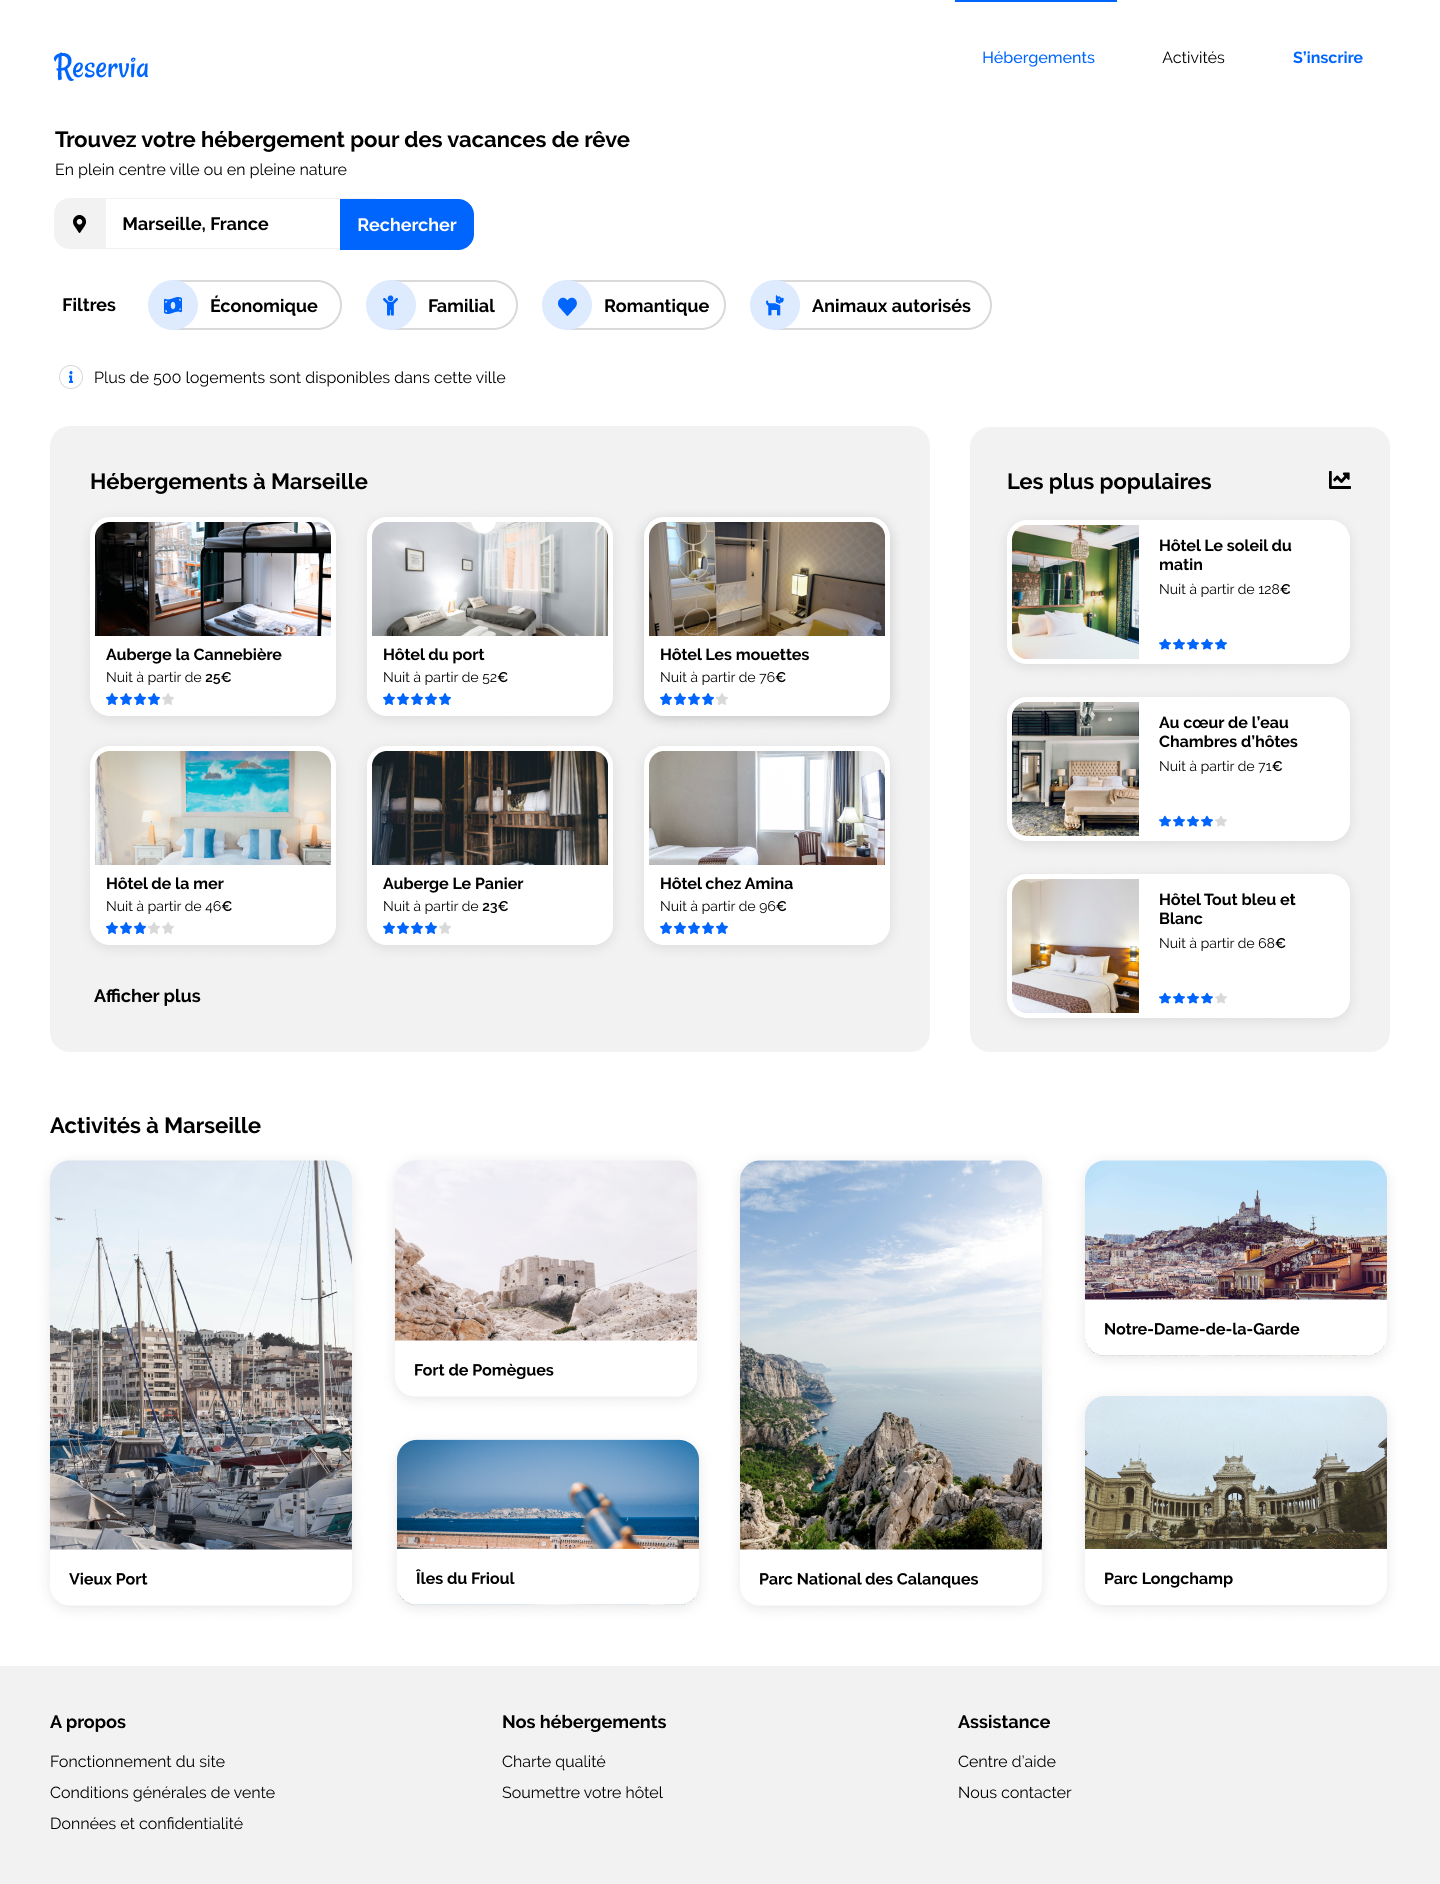
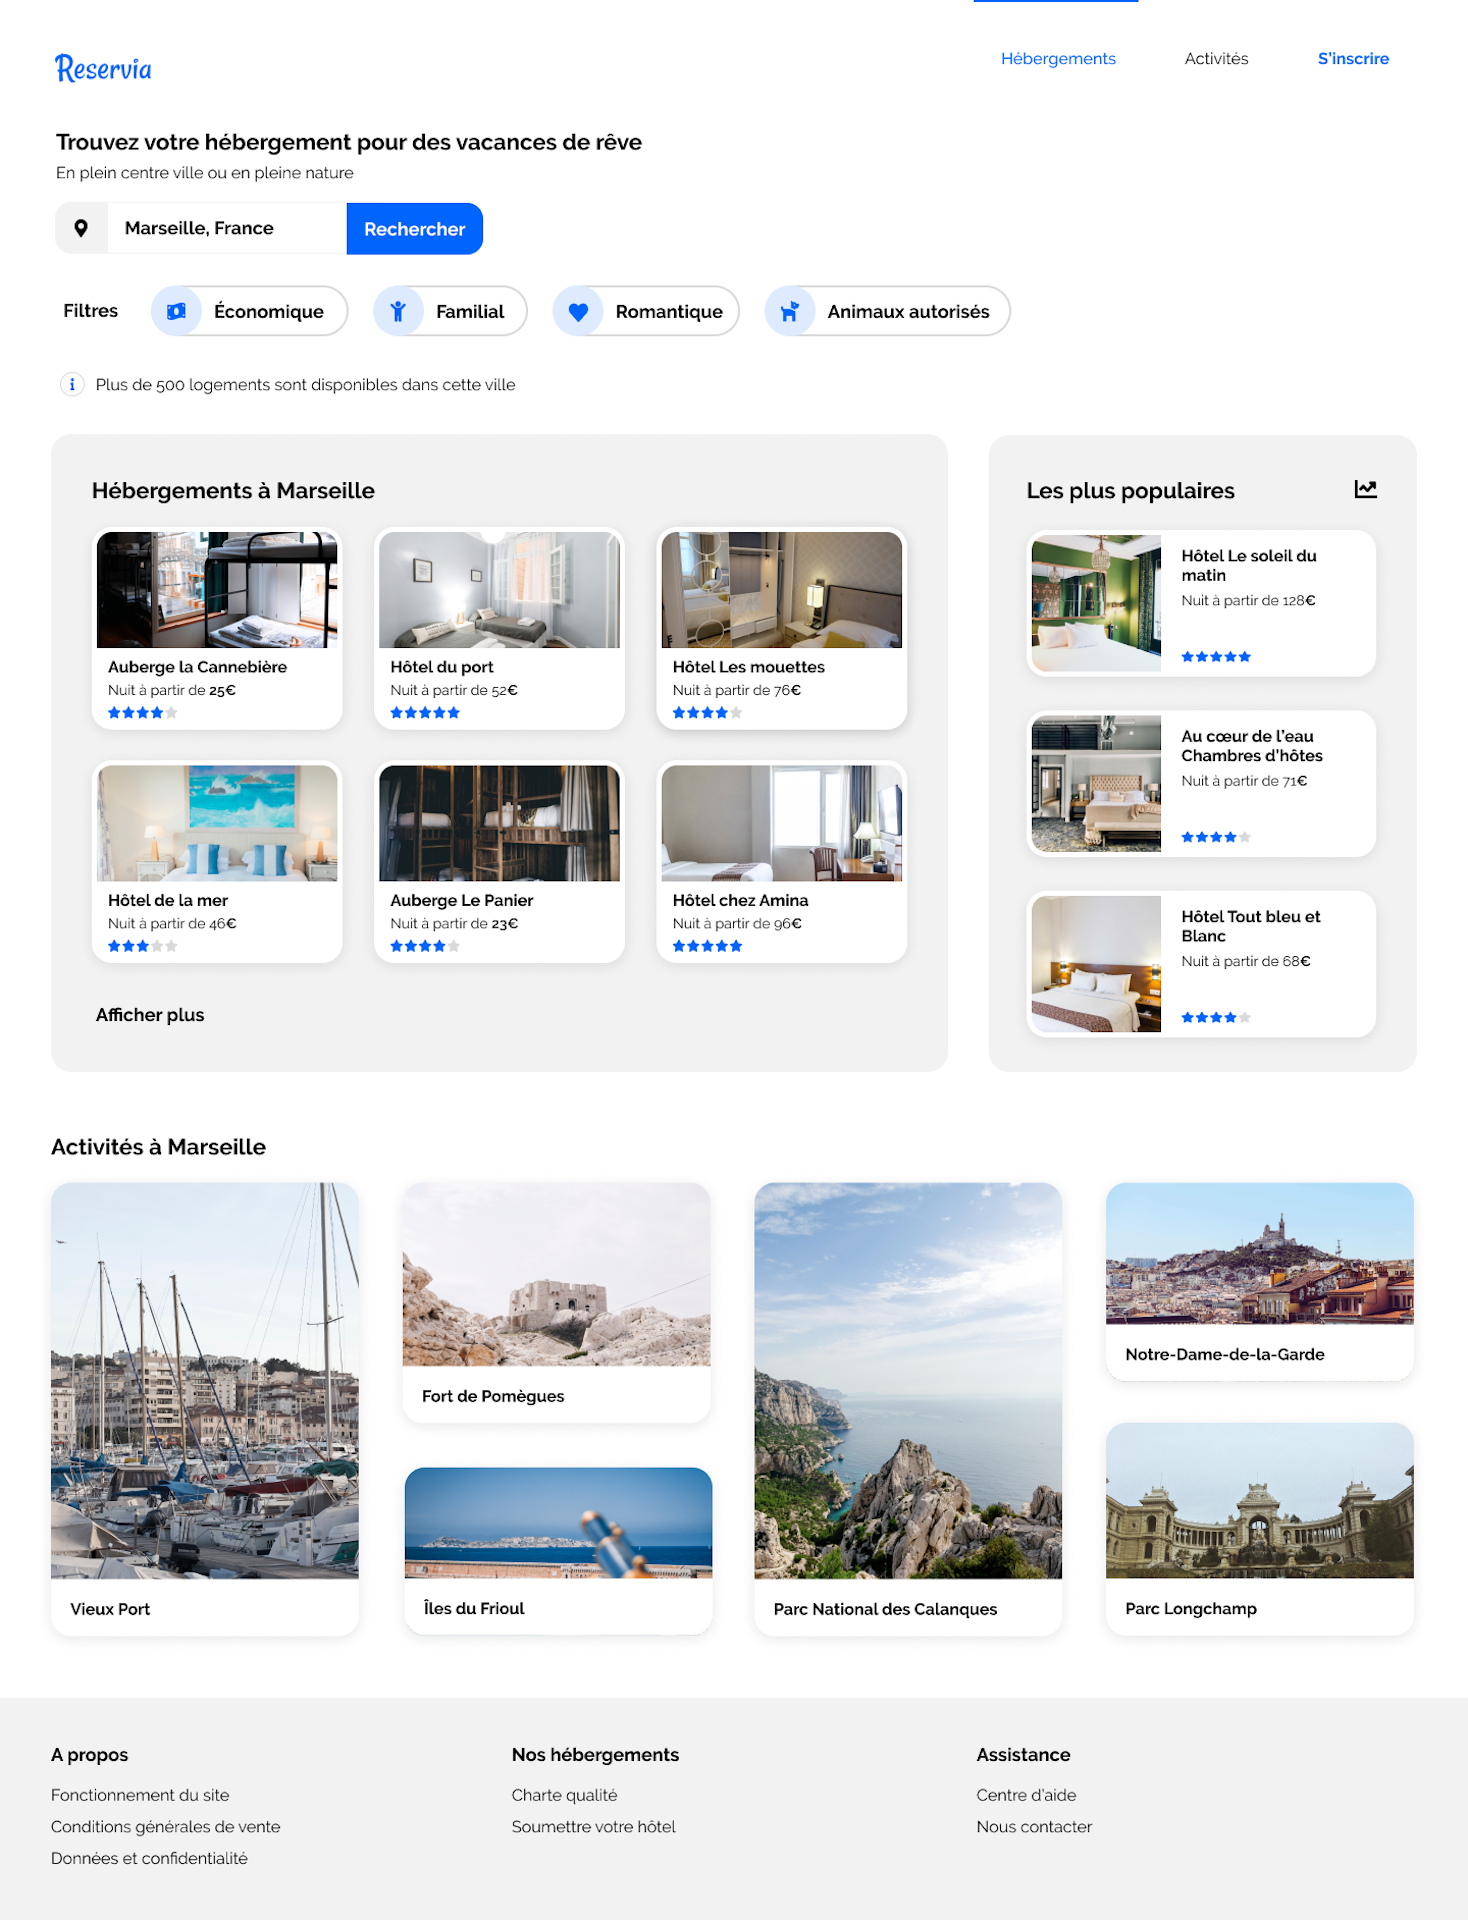
mise en place de popular

diff --git a/index.html b/index.html
@@ -31,14 +31,6 @@
         
 
 
-
-
-
-
-
-
-
-
         <!--section1 search and filters-->
         <section id="where">
 
@@ -63,9 +55,6 @@
 
             </div>
             
-
-
-
 
             
             <div class="filters">
@@ -144,92 +133,103 @@
         
         
             <article>
-            <H1>Hébergements à Marseille</H1>
-            <div class="photosHebergement">
-                <ul >
-                    <li>
+                <div><H1>Hébergements à Marseille</H1></div>
 
-                        <div class="medaillon">
-                            <a href="images/hebergements/1_xlarge/annie-spratt-Eg1qcIitAuA-unsplash.jpg"><img src="images/hebergements/vignette /annie.jpg" alt="chez Annie"/></a>
-                        </div>
+                <div class="photosHebergement">
+                    <ul >
+                         <li>
+
+                            <div class="medaillon">
+                            <a href="images/hebergements/1_xlarge/marcus-loke-WQJvWU_HZFo-unsplash.jpg"><img src="images/hebergements/vignette /marcus.jpg" alt="chez Annie"/></a>
+                             </div>
                             
                 
-                        <div class="desc"><h3>Hotel chez Annie</h3>
-                                        <p>Nuit à partir de 25€</p>
-                                        <p><div class="starBlue"><i class="fas fa-star "></i><i class="fas fa-star"></i> <i class="fas fa-star"></i> <i id="starGrey" class="fas fa-star"></i> <i id="starGrey" class="fas fa-star"></i></div>
+                            <div class="desc"><h3>Auberge la Cannebière</h3>
+                                        <p>Nuit à partir de <B>25€</B></p>
+                                        <p><div class="starBlue"><i class="fas fa-star "></i><i class="fas fa-star"></i><i class="fas fa-star"></i><i class="fas fa-star"></i><i id="starGrey" class="fas fa-star"></i></p>
 
-                        </div>
+                            </div>
 
-                    </li>
+                        </li>
                     
-                    <li>
+                        <li>
 
-                        <div class="medaillon">
-                            <a href="images/hebergements/1_xlarge/aw-creative-VGs8z60yT2c-unsplash.jpg"><img src="images/hebergements/vignette /Webp.net-resizeimage.jpg" alt="chez Creative"></a>
-                        </div>
-                            
-                
-                        <div class="desc"><h3>Hotel chez Annie</h3>
-                                        <p>Nuit à partir de 25€</p>
-                                        <p>etoile</p>
-
-                        </div>
-
-                    </li>
-                    <li>
-
-                        <div class="medaillon">
-                            <a href="images/hebergements/1_xlarge/aw-creative-VGs8z60yT2c-unsplash.jpg"><img src="images/hebergements/vignette /Webp.net-resizeimage.jpg" alt="chez Creative"></a>
-                        </div>
-                            
-                
-                        <div class="desc"><h3>Hotel chez Annie</h3>
-                                        <p>Nuit à partir de 25€</p>
-                                        <p>etoile</p>
-
-                        </div>
-
-                    </li>
+                            <div class="medaillon">
+                                <a href="images/hebergements/1_xlarge/fred-kleber-gTbaxaVLvsg-unsplash.jpg"><img src="images/hebergements/vignette /hotel_du_port.jpg" alt="chez Creative"></a>
+                            </div>
+                                    
                     
-                    <li>
+                            <div class="desc"><h3>Hôtel du port</h3>
+                                            <p>Nuit à partir de <B>52€</B></p>
+                                            <p><div class="starBlue"><i class="fas fa-star "></i><i class="fas fa-star"></i><i class="fas fa-star"></i><i class="fas fa-star"></i><i class="fas fa-star"></i></p>
 
-                        <div class="medaillon">
-                            <a href="images/hebergements/1_xlarge/aw-creative-VGs8z60yT2c-unsplash.jpg"><img src="images/hebergements/vignette /Webp.net-resizeimage.jpg" alt="chez Creative"></a>
-                        </div>
-                            
-                
-                        <div class="desc"><h3>Hotel chez Annie</h3>
-                                        <p>Nuit à partir de 25€</p>
-                                        <p>etoile</p>
+                            </div>
 
-                        </div>
+                        </li>
+                        <li>
 
-                    </li>
-                    <li>
-
-                        <div class="medaillon">
-                            <a href="images/hebergements/1_xlarge/aw-creative-VGs8z60yT2c-unsplash.jpg"><img src="images/hebergements/vignette /Webp.net-resizeimage.jpg" alt="chez Creative"></a>
-                        </div>
-                            
-                
-                        <div class="desc"><h3>Hotel chez Annie</h3>
-                                        <p>Nuit à partir de 25€</p>
-                                        <p>etoile</p>
-
-                        </div>
-
-                    </li>
-                     
+                            <div class="medaillon">
+                                <a href="images/hebergements/1_xlarge/reisetopia-B8WIgxA_PFU-unsplash.jpg"><img src="images/hebergements/vignette /hotel_les_mouettes.jpg" alt="chez Creative"></a>
+                            </div>
+                                
+                    
+                            <div class="desc"><h3>Hôtel des mouettes</h3>
+                                            <p>Nuit à partir de <B>76€</B></p>
+                                            <p><div class="starBlue"><i class="fas fa-star"></i><i class="fas fa-star"></i><i class="fas fa-star"></i><i class="fas fa-star"></i><i id="starGrey" class="fas fa-star"></i></p>
 
 
-            
+                            </div>
 
-            
+                        </li>
+                        
+                        <li>
+
+                            <div class="medaillon">
+                                <a href="images/hebergements/1_xlarge/annie-spratt-Eg1qcIitAuA-unsplash.jpg"><img src="images/hebergements/vignette /annie.jpg" alt="chez Annie"/></a>
+                            </div>
+                                
+                    
+                            <div class="desc"><h3>Hôtel de la mer</h3>
+                                            <p>Nuit à partir de <B>46€</B></p>
+                                            <p><div class="starBlue"><i class="fas fa-star"></i><i class="fas fa-star"></i> <i class="fas fa-star"></i> <i id="starGrey" class="fas fa-star"></i> <i id="starGrey" class="fas fa-star"></i></p>
+
+                            </div>
+
+                        </li>
+                        <li>
+
+                            <div class="medaillon">
+                                <a href="images/hebergements/1_xlarge/nicate-lee-kT-ZyaiwBe0-unsplash.jpg"><img src="images/hebergements/vignette /auberge_le_panier.jpg" alt="chez Creative"></a>
+                            </div>
+                                
+                    
+                            <div class="desc"><h3>Auberge le panier</h3>
+                                            <p>Nuit à partir de <B>23€</B></p>
+                                            <p><div class="starBlue"><i class="fas fa-star"></i><i class="fas fa-star"></i><i class="fas fa-star"></i><i class="fas fa-star"></i><i id="starGrey" class="fas fa-star"></i></p>
 
 
-            </ul>
+                            </div>
+
+                        </li>
+
+                        <li>
+
+                            <div class="medaillon">
+                                <a href="images/hebergements/1_xlarge/febrian-zakaria-M6S1WvfW68A-unsplash.jpg"><img src="images/hebergements/vignette /hotel_chez-amina.jpg" alt="chez Creative"></a>
+                            </div>
+                                
+                    
+                            <div class="desc"><h3>Hôtel chez Amina</h3>
+                                            <p>Nuit à partir de <B>96€</B></p>
+                                            <p><div class="starBlue"><i class="fas fa-star "></i><i class="fas fa-star"></i><i class="fas fa-star"></i><i class="fas fa-star"></i><i class="fas fa-star"></i></p>
+
+                            </div>
+
+                        </li>
+
+                </ul>
             </div>
-            <h2>Afficher plus</h2>
+            <div><h2>Afficher plus</h2></div>
 
 
             
@@ -242,11 +242,59 @@
         
         
             <aside>
-                <h1>Les plus populaires </h1>
-                <i class="fas fa-chart-line"></i>
-                
+                <div id="popular">
+                    <h1>Les plus populaires </h1>
+                    <p><i class="fas fa-chart-line"></i></p>
+                </div>
+                    <ul>
+                        <li>
 
-                
+                            <div class="medaillon2">
+                                <a href="images/hebergements/1_xlarge/emile-guillemot-Bj_rcSC5XfE-unsplash.jpg"><img src="images/hebergements/vignette /hotel_le_soleil_du_matin.jpg" alt="chez Annie"/></a>
+                            </div>
+                                
+                    
+                            <div class="desc"><h3>Hôtel Le soleil du matin</h3>
+                                            <p>Nuit à partir de <B>128€</B></p>
+                                            <p><div class="starBlue"><i class="fas fa-star "></i><i class="fas fa-star"></i><i class="fas fa-star"></i><i class="fas fa-star"></i><i class="fas fa-star"></i></p>
+
+                            </div>
+
+                        </li>
+                        <li>
+
+                            <div class="medaillon2">
+                                <a href="images/hebergements/1_xlarge/aw-creative-VGs8z60yT2c-unsplash.jpg"><img src="images/hebergements/vignette /Au-coeur_de_l_eau.jpg" alt="chez Creative"></a>
+                            </div>
+                                
+                    
+                            <div class="desc"><h3>Au coeur de l'eau chambres d'hôtes</h3>
+                                            <p>Nuit à partir de <B>71€</B></p>
+                                            <p><div class="starBlue"><i class="fas fa-star"></i><i class="fas fa-star"></i><i class="fas fa-star"></i><i class="fas fa-star"></i><i id="starGrey" class="fas fa-star"></i></p>
+
+
+                            </div>
+
+                        </li>
+
+                        <li>
+
+                            <div class="medaillon2">
+                                <a href="images/hebergements/1_xlarge/febrian-zakaria-sjvU0THccQA-unsplash.jpg"><img src="images/hebergements/vignette /hotel_tout_bleu_et-blanc.jpg" alt="chez Creative"></a>
+                            </div>
+                                
+                    
+                            <div class="desc"><h3>Hôtel tout bleu et Blanc</h3>
+                                            <p>Nuit à partir de <B>68€</B></p>
+                                            <p><div class="starBlue"><i class="fas fa-star"></i><i class="fas fa-star"></i><i class="fas fa-star"></i><i class="fas fa-star"></i><i id="starGrey" class="fas fa-star"></i></p>
+
+
+                            </div>
+
+                        </li>
+                        
+
+                </ul>
 
             </aside>
             

diff --git a/style.css b/style.css
@@ -16,6 +16,7 @@ header{
   justify-content: space-between; /* pour mettre sur les coté les containers*/
   margin-bottom: 25px;
 }
+
 figure {
   margin: 0px;
 }
@@ -135,7 +136,7 @@ input::placeholder{
 }
 
 .btn2 {
-display: flex;
+ display: flex;
  height: 43px;
  border: 2px solid;
  border-color: #F2F2F2 ;
@@ -182,10 +183,13 @@ display: flex;
 
 
 
-
-
 #hebergement {
   display: flex;
+  
+}
+
+#hebergment article h2 {
+  margin-left: 40px;
 }
 
 #starGrey{
@@ -196,16 +200,18 @@ display: flex;
   color: #0065FC;
 }
 
-#hebergement article  {
+#hebergement article{
   background-color:  #F2F2F2;
-  margin-right: 30px;
+  border-radius: 10px; 
   width: 66%;
-  
-  
+  margin-right: 40px;
+}
+
+.photosHebergement ul{
+
   display: flex;
   flex-flow: row wrap;
-  justify-content: space-between;
-  
+  justify-content: space-evenly;
 }
 
 .photosHebergement ul li{
@@ -226,7 +232,7 @@ display: flex;
   border-top-left-radius: 10px;
   border-top-right-radius: 10px;
   margin-top: 5px ;
-  margin-left: 3px;
+  margin-left: 5px;
   display: flex;
   justify-content: center;
   align-items: center;
@@ -249,3 +255,15 @@ h2{
   font-size: 16px;
 }
 
+/*Populaires*/
+
+aside {
+  background-color:  #F2F2F2;
+  border-radius: 10px;
+  width: 33%;
+}
+
+#popular {
+  display: flex;
+  justify-content: space-between;
+}
